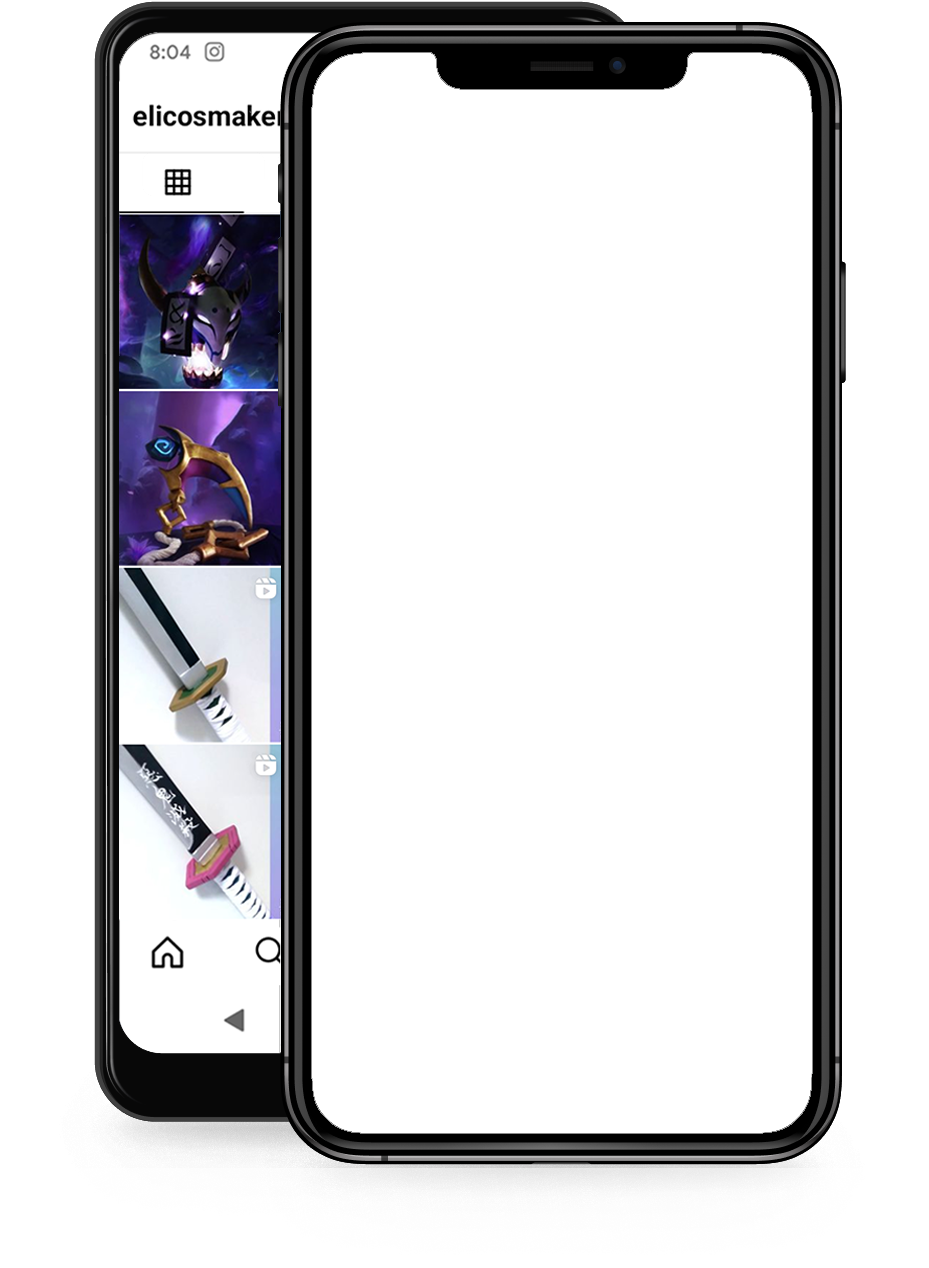
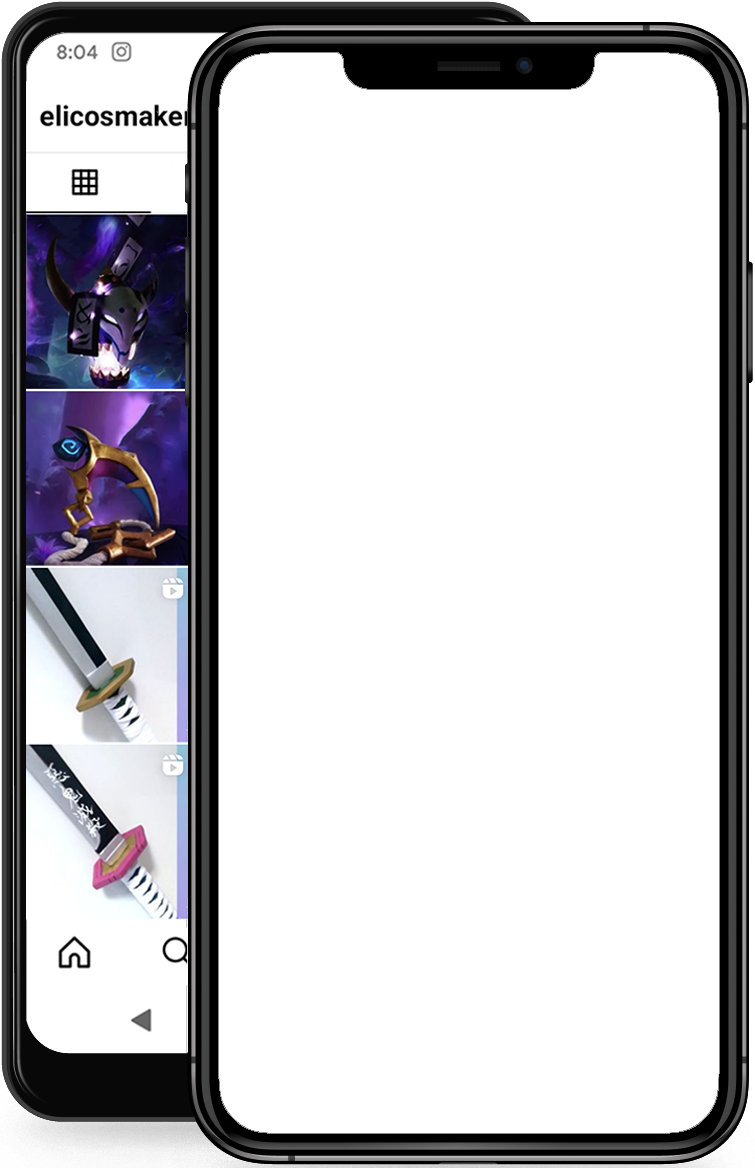
spacing and animation

diff --git a/assets/style/style.css b/assets/style/style.css
@@ -5,8 +5,6 @@
     margin: 0;
     box-sizing: border-box;
     text-decoration: none;
-    font-family: "Segoe UI", "Roboto", Helvetica,Arial,sans-serif;
-    font-size: 14px;
 }
 
 body {
@@ -15,61 +13,76 @@ body {
     background-color: rgb(243, 243, 243);
     margin: 0;
     padding: 0;
-    display: flex;
-    justify-content: center;
+    font-family: "Segoe UI", "Roboto", Helvetica,Arial,sans-serif;
+    font-size: 0.9rem;
+    font-weight: 600;
 }
 
 main {
     display: flex;
+    flex-direction: row;
     align-items: center;
     justify-content: center;
-    flex-grow: 1;
-    width: 100%;
-    height: 100vh;
 }
 
 .instagram-wrapper {
     display: flex;
+    flex-direction: row;
     align-items: center;
     justify-content: center;
-    flex-grow: 1;  
+    width: 100%;
+    height: 100vh;
 }
 
 .instagram-phone {
     display: flex;
     align-items: center;
     justify-content: center;
-    flex-basis: 23.77rem;
+    flex-basis: 24rem;
     width: 100%;
-    height: 36.322rem;
+    height: 36.8rem;
     background: url('../img/instagram-celular-elicosmaker.png') no-repeat center;
     background-size: cover;
-    margin: 0 2rem 0.75rem 0;
+    margin: 0.5rem 2rem 0.75rem 0;
 }
 
 .instagram-phone img {
-    position: relative;
-    width: 15.625rem;
-    height: 33.678rem;
-    max-height: 34rem;
-    margin: 1.688rem 0 0 8.313rem;
+    position: absolute;
+    margin: 0 0 0 3rem;
+    width: auto;
+    height: 34rem;
+    animation: slide 12s infinite linear;
 }
 
-
 .instagram-phone #feed {
-    position: absolute;
-    margin: -0.8rem 0 0 2.55rem;
-    width: auto;
-    height: 32rem;
+    animation-delay: 0;
     z-index: -1;
 }
 
 .instagram-phone #reels {
-    position: absolute;
-    margin: -0.8rem 0 0 2.55rem;
-    width: auto;
-    height: 32rem;
-    z-index: -1;
+    animation-delay: 6s;
+    z-index: -2;
+}
+
+@keyframes slide {
+    100% {
+        opacity: 0;
+    }
+    80% {
+        opacity: 0;
+    }
+    60% {
+        opacity: 1;
+    }
+    40% {
+        opacity: 1;
+    }
+    20% {
+        opacity: 0;
+    }
+    0% {
+        opacity: 0;
+    }
 }
 
 .instagram-continue {
@@ -78,8 +91,8 @@ main {
     justify-content: space-around; 
     flex-direction: column;
     flex-grow: 1;  
-    max-width: 21.875rem;
-    margin-top: 0.75rem;
+    max-width: 21.65rem;
+    margin-top: 1rem;
 }
 
 .group {
@@ -99,8 +112,8 @@ main {
 }
 
 .instagram-logo {
-    height: 3rem;
-    margin: 2rem 0 1rem;
+    height: 3.15rem;
+    margin: 1.5rem 0 1rem;
 }
 
 .profile-photo {
@@ -113,30 +126,31 @@ main {
 }
 
 .profile-photo img {
-    height: 6rem;
+    height: 5.25rem;
 }
 
 .instagram-login {
     background-color: #0095f6;
     color: white;
-    font-weight: 600rem;
     border-radius: 0.25rem;
     border: 0.063rem solid transparent;
-    margin: 1rem auto 1.25rem;
-    padding: 0.25rem 0.75rem;
+    margin: 1rem 1.25rem;
+    padding: 0.2rem 0.75rem;
 }
 
 .instagram-logout {
     color: #0095f6;
-    margin-bottom: 1.25rem;
+    margin-bottom: 0.5rem;
 }
 
 .not-account {
     color: rgb(160, 160, 160);
+    font-weight: 400;
 }
 
 .link-blue {
     color: #0095f6;
+    font-weight: 500;
 }
 
 .get-the-app {
@@ -145,7 +159,11 @@ main {
     align-items: center;
     justify-content: center;
     width: 100%;
+}
+
+.get-app {
     margin: 0.625rem 1.25rem 0.625rem 1.25rem;
+    font-weight: 400;
 }
 
 .download {
@@ -155,7 +173,6 @@ main {
     align-items: center;
     gap: 0.5rem;
     padding: 1rem;
-    margin: 0.625rem 0 0.625rem 0;
 }
 
 .app-download {
@@ -172,22 +189,15 @@ main {
     background-image: url('../img/googleplay-button.png');
 }
 
-/* media queries */
 
-
-@media (max-width: 1024px) {
-    .instagram-wrapper {
-        width: 90%;
-    }
-}
-
-@media (max-width: 650px) {
+@media (max-width: 690px) {
     body {
         background-color: white;
     }
 
     .instagram-wrapper {
         width: 90%;
+        margin: 2.5rem 0;
     }
 
     .instagram-phone {
@@ -198,7 +208,5 @@ main {
         width: 100%;
     }
     
-    .group {
-        border: 1px solid transparent;
-    }
+
 }

diff --git a/README.md b/README.md
@@ -1,9 +1,16 @@
 <div align="center">
-  <a href="https://elidianaandrade.github.io/archstil/">
+  <a href="https://dio-desafio-instagram.netlify.app/">
     <img alt="Instagran Eli Cosmaker" src="https://github.com/elidianaandrade/dio-desafio-instagram/blob/main/assets/img/instagram-elicosmaker-screen.png?raw=true">
   </a>
 </div>
 <br>
 
 # INSTAGRAM CLONE | Eli Cosmaker
+
+## 📷 Sobre o projeto
 Reconstruindo a página de login do instagram.
+
+🔗 [**Ver projeto**](https://dio-desafio-instagram.netlify.app/)
+
+## ⚙ Funcionalidades
+- [x] Imagens passando no celular.
